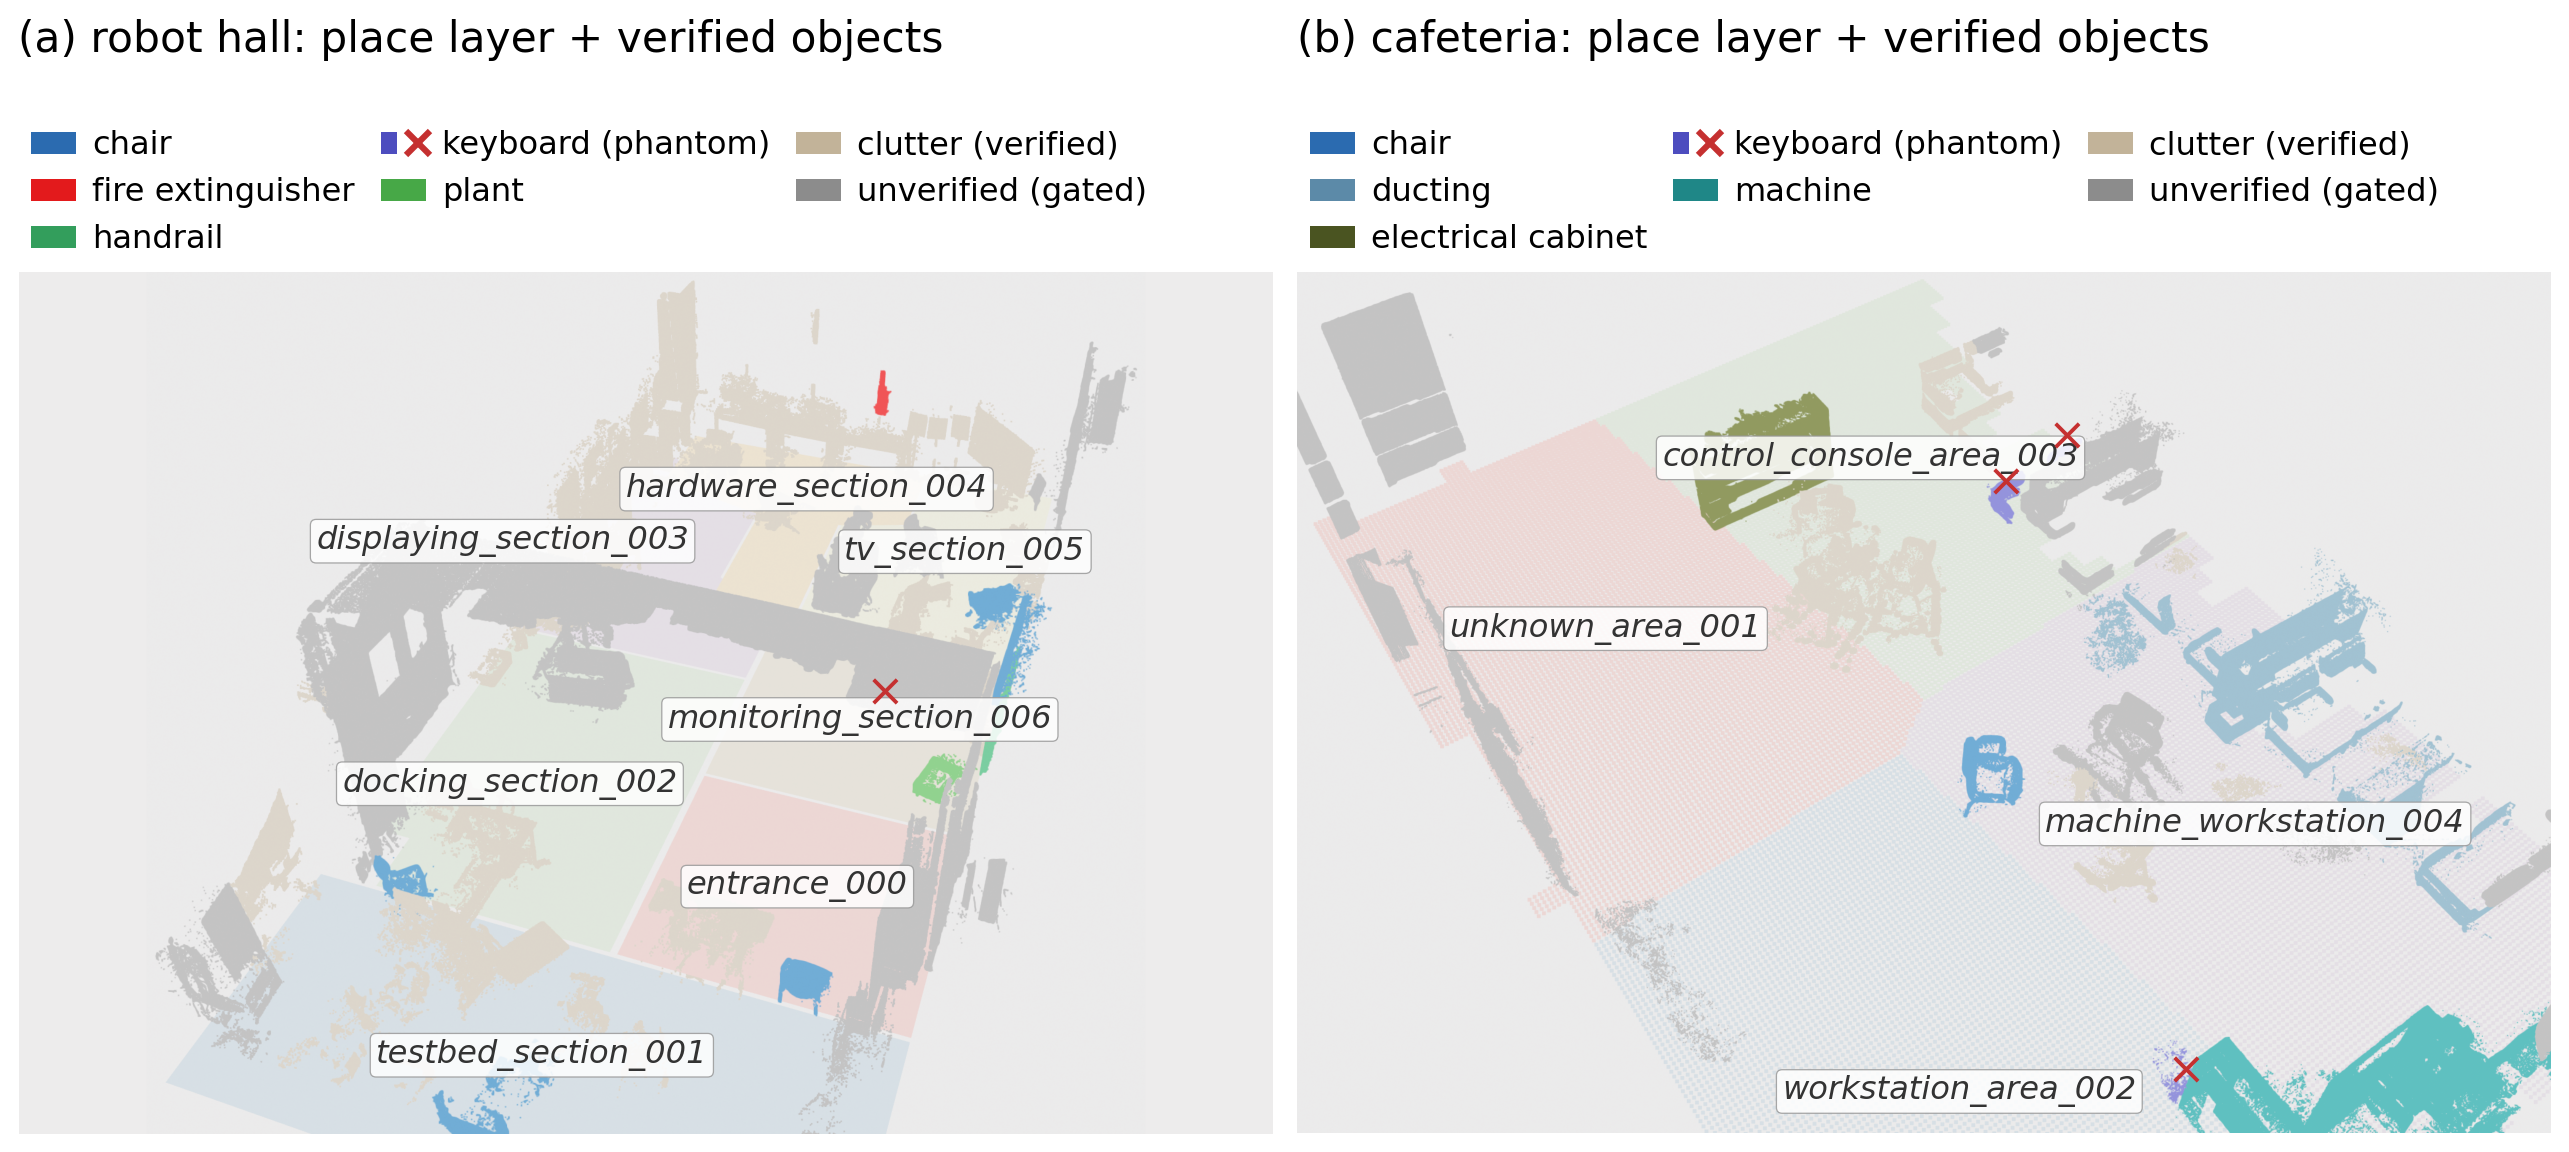
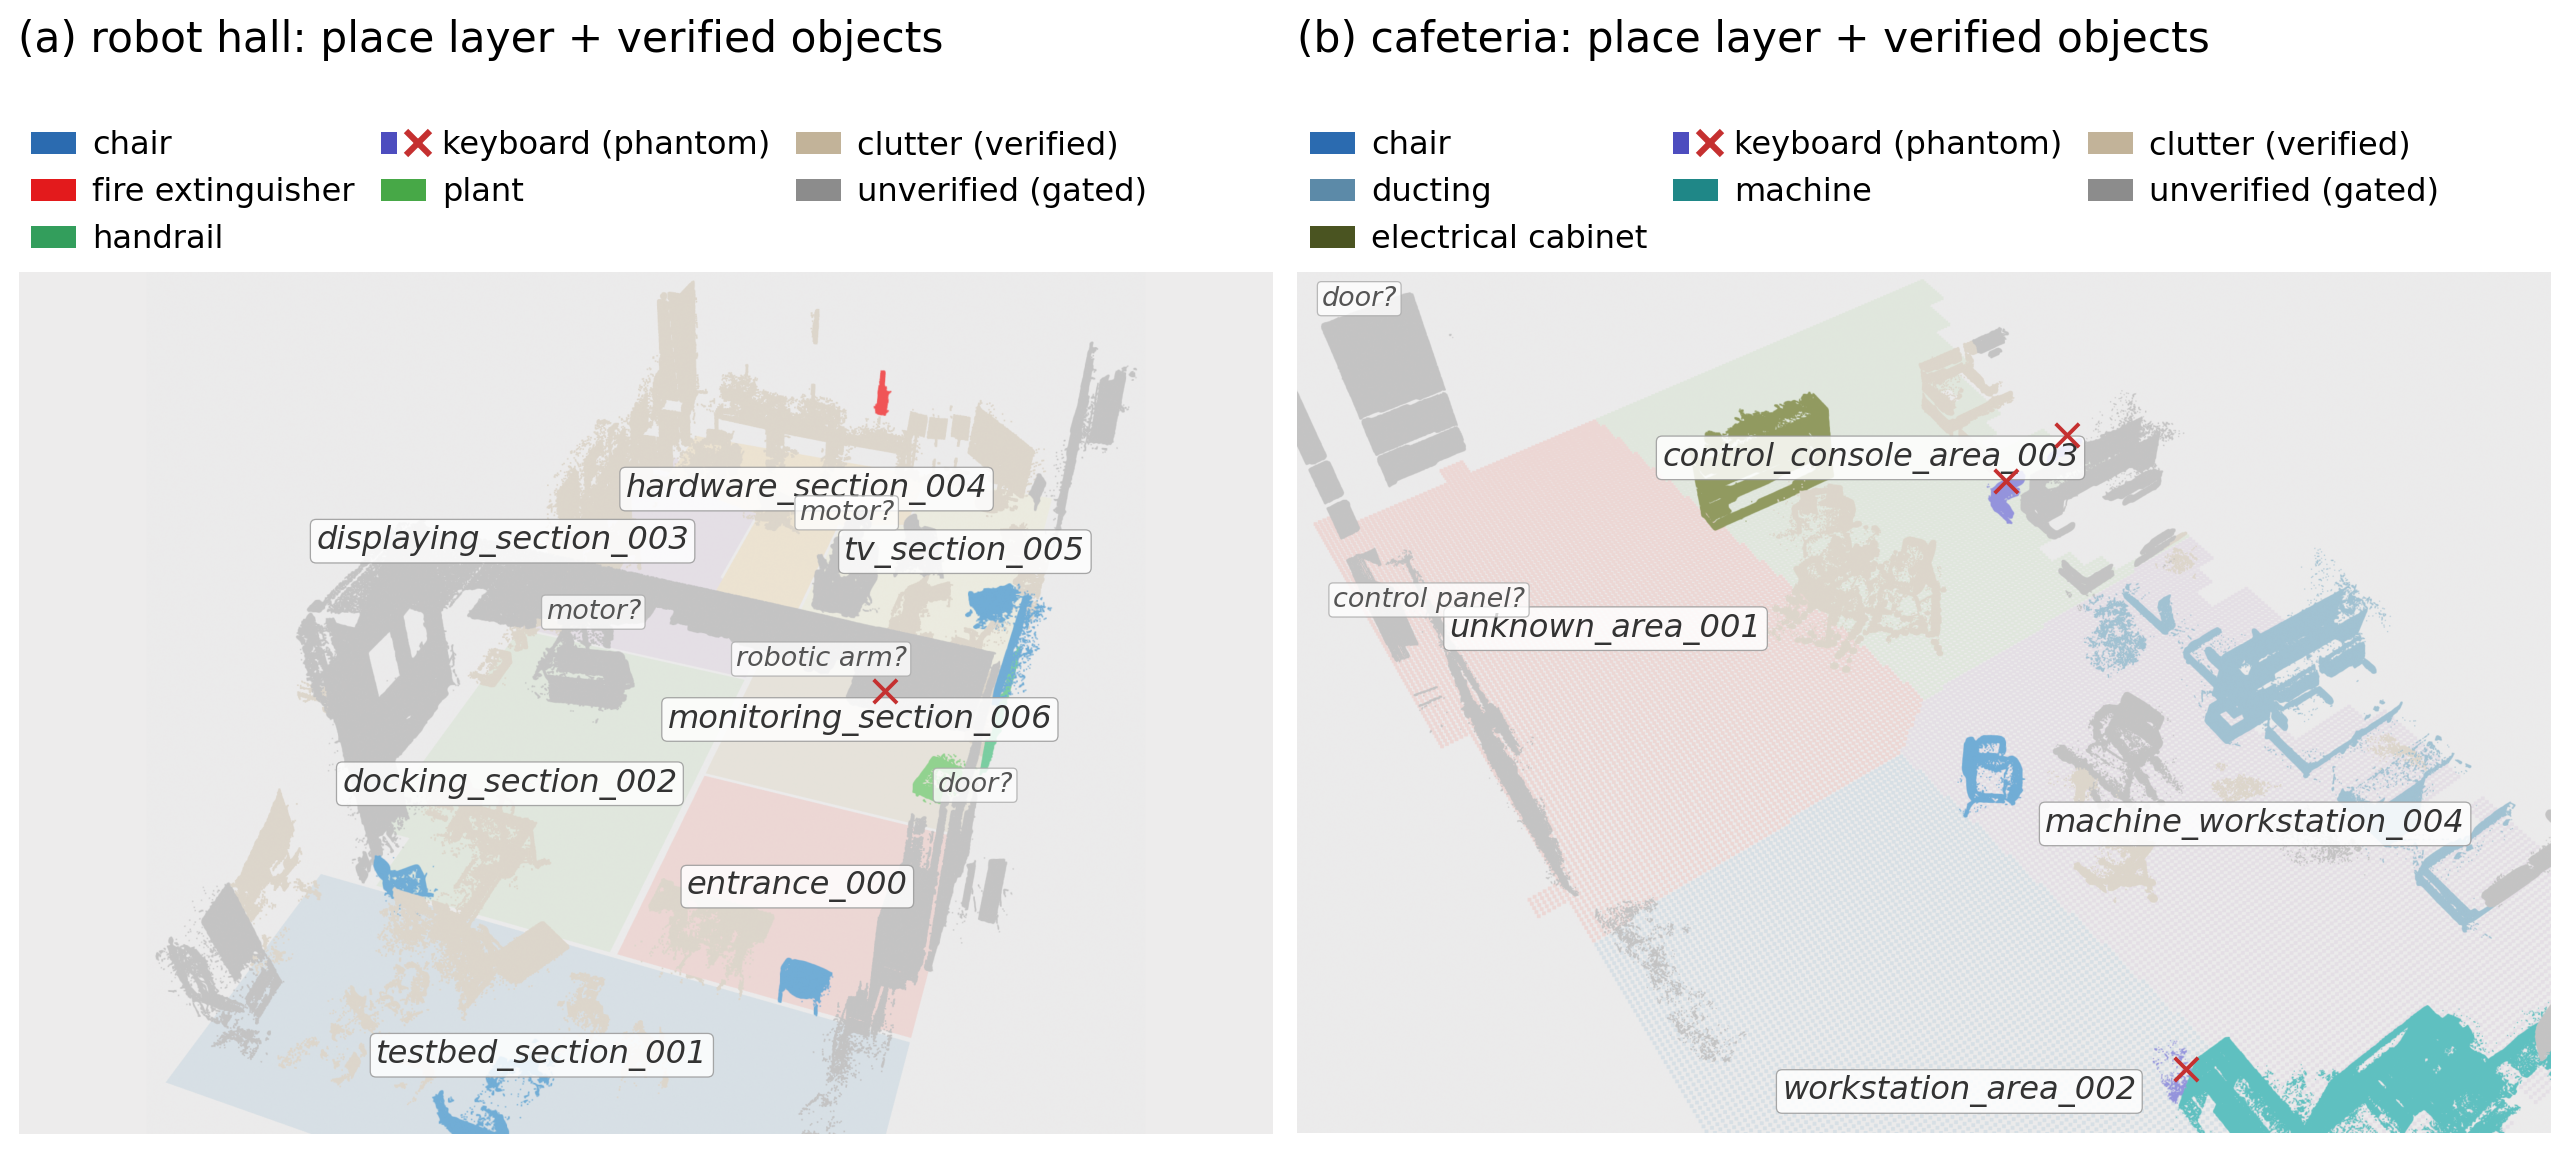
fig19 label review (user): verification-stage framing in caption, gray 'type?' callouts for gated top-votes (motors=manipulators, both cafe doors, control panel), planter mislabel + absorbed machines/TV explained

diff --git a/docs/electronics2026/manuscript/sec3_overview.tex b/docs/electronics2026/manuscript/sec3_overview.tex
@@ -67,17 +67,26 @@ map itself.
 \begin{figure}[!tp]
 \centering
 \includegraphics[width=\linewidth]{fig19_semantic_map.png}
-\caption{The generated semantic map, visualized from the knowledge graph.
+\caption{The generated semantic map, visualized at the verification
+stage (before owner feedback), so the confidence gate and the errors
+that pass it are both visible.
 (a)~Robot hall: SLIC place-layer regions (pastel floor, named by
 the LLM ring-code scheme of Sec.~\ref{sec:place}) with the room-scoped
 object clusters rendered as their full-resolution segmented points,
 colored by verified class; gray clusters are \texttt{unverified} and
-demoted at query time. (b)~The cafeteria stress scene under the same
+demoted at query time. Gray italic callouts name the gate's withheld top
+votes---the hall's mobile manipulators surface as \emph{motor?}, and
+both cafeteria doors are correctly suspected but held below the resolve
+threshold---while the hall's machines and wall TV sit unnamed inside the
+gray and clutter mass, the absorption class of
+Sec.~\ref{sec:exp-verify}. (b)~The cafeteria stress scene under the same
 representation, its place layer derived by the identical SLIC recipe
 after synthesizing the occupancy grid from the scan's floor points (no
 SLAM run exists for this scene). Red crosses mark verified-keyboard
 clusters that are owner-refuted phantoms---no keyboard exists in either
-scene---and place naming is verifier-bounded accordingly: the cafeteria
+scene---and the olive ``electrical cabinet'' in (b) is in fact a
+planter partition, an owner-graded wrong label shown as the verifier
+produced it. Place naming is verifier-bounded accordingly: the cafeteria
 phantoms pull two region names toward workstation/console
 semantics, the same label-propagation mechanism as the
 \texttt{staircase\_landing} case of Sec.~\ref{sec:exp-verify}.}
